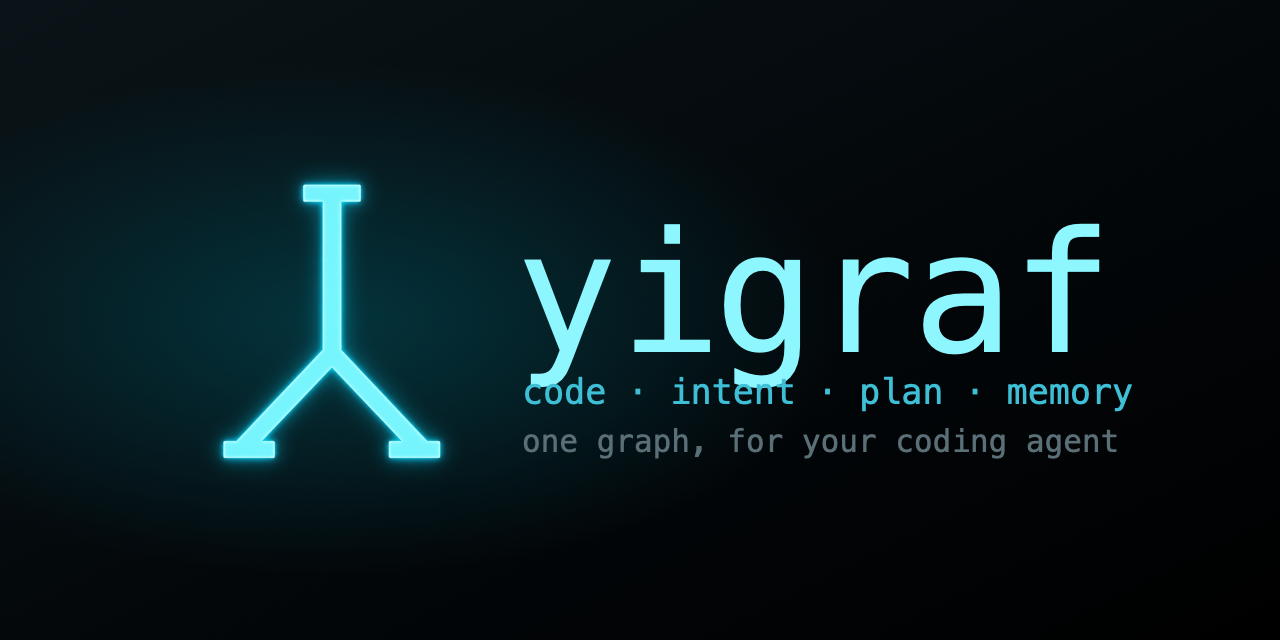
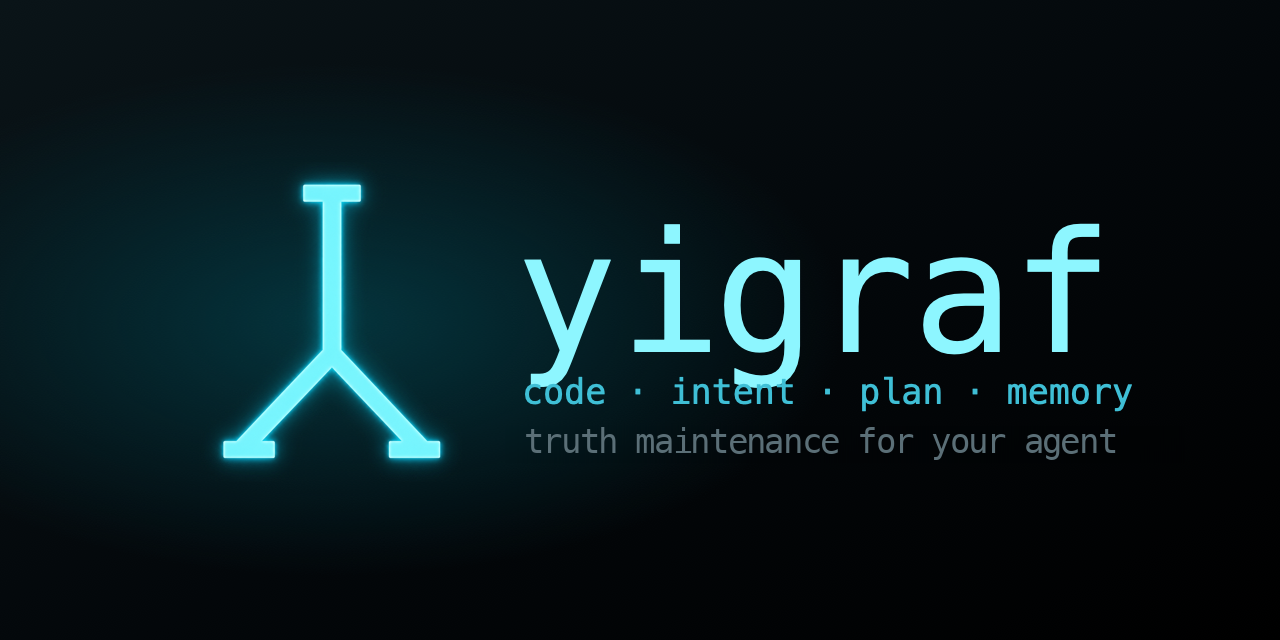
assets: the social card says what yigraf does, not what it holds
The card's subtitle still read "one graph, for your coding agent" — the graph-
first framing 1.9.1 moved away from. Now "truth maintenance for your agent".

Replaced only that line: the logo, the wordmark and the "code · intent · plan ·
memory" family line are byte-identical, and the new line sits on the same 18.5px
mono grid (32 cells, same as the old string), same baseline y=453, same #5b6f77
fill. The band behind it was rebuilt from the card's own background bloom rather
than flood-filled, so the gradient still runs continuously through it.

Not a release: the card is a repo asset, not part of the distribution, so 1.9.1
on PyPI is unaffected and the v1.9.1 tag still matches exactly what was published.

Changed region(s): [[0.4062, 0.6562, 0.875, 0.7188]]

diff --git a/CHANGELOG.md b/CHANGELOG.md
@@ -33,7 +33,9 @@ maintenance system" is a phrase for a human deciding whether to install; in a ho
 cost tokens to say less. The design law applies to the branding too.
 
 One real gap closed along the way: the landing page carried no `og:`/`twitter:` tags at all, so every
-shared link rendered bare. Added, with the social card.
+shared link rendered bare. Added — pointing at the social card, whose subtitle now reads *truth
+maintenance for your agent* in place of *one graph, for your coding agent*. (GitHub's own repo card
+is a separate manual upload in Settings → Social preview.)
 
 Copy and packaging metadata only — no engine change, no behavior change, no schema change.
 
